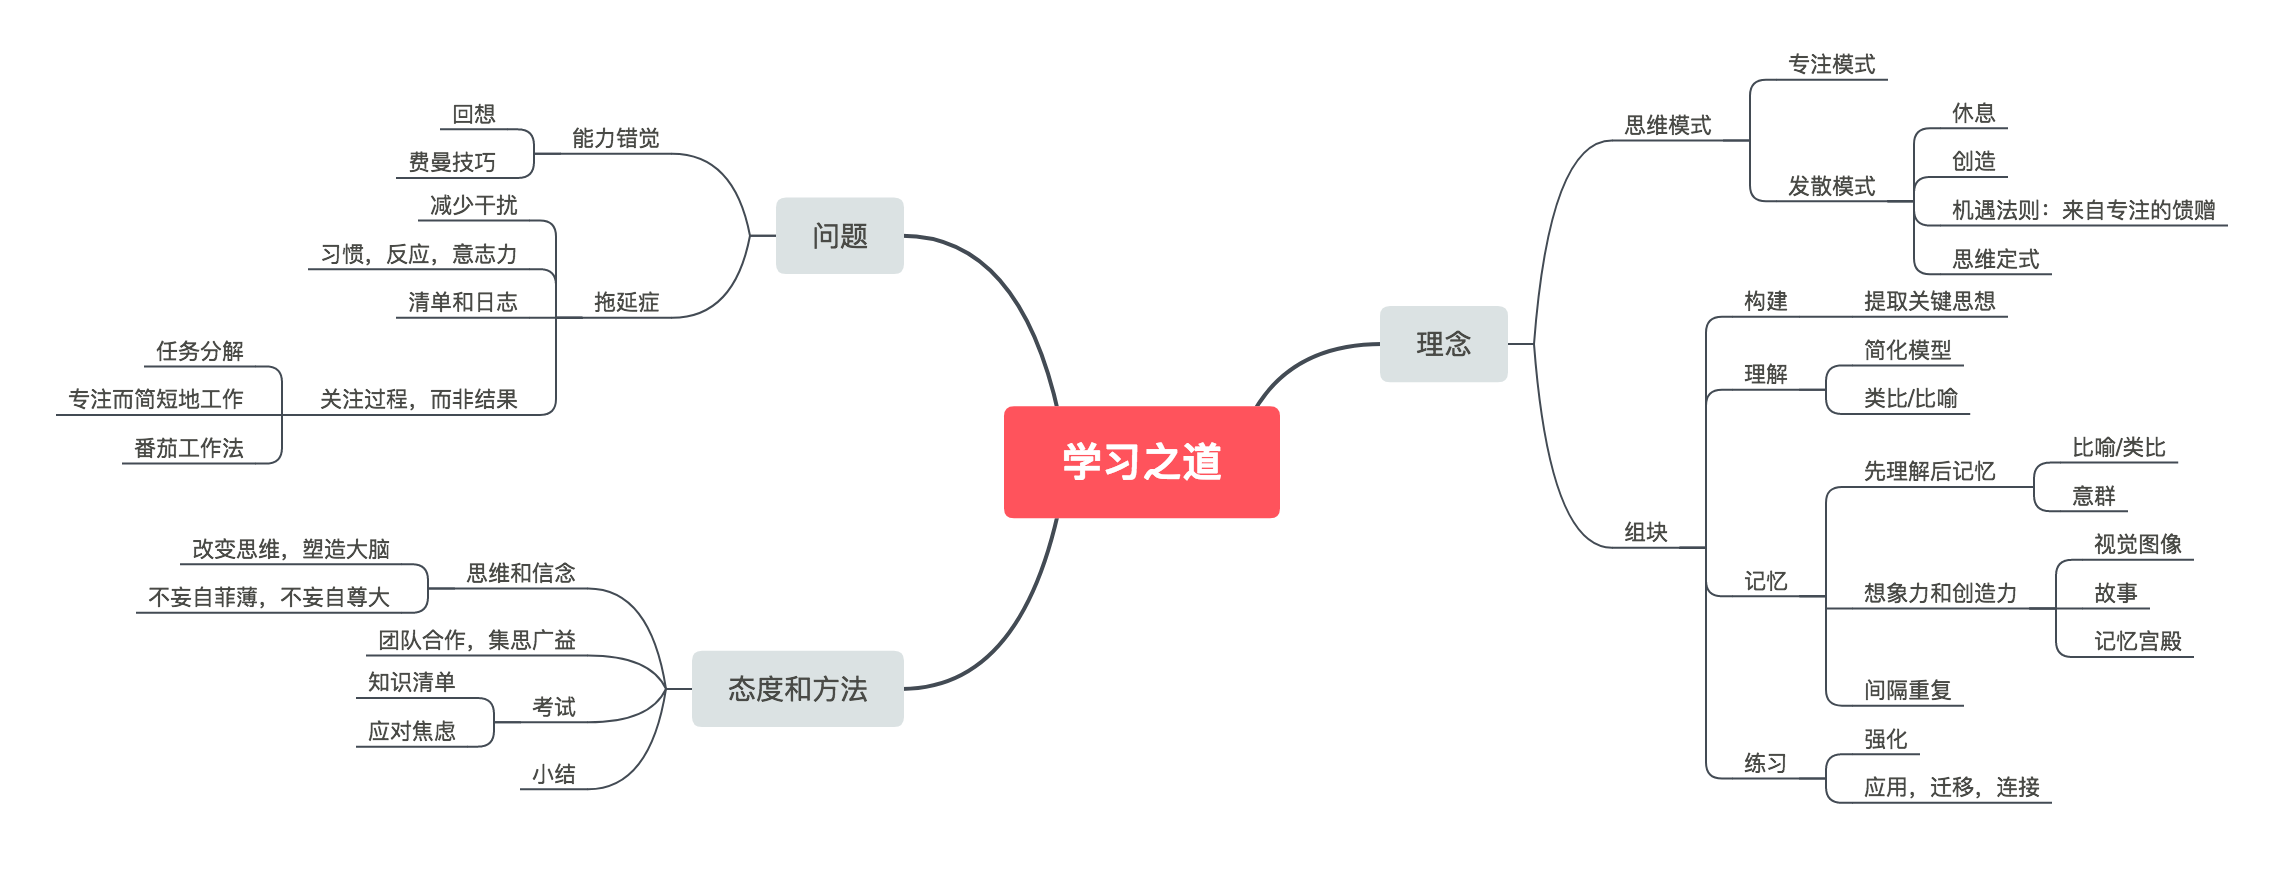
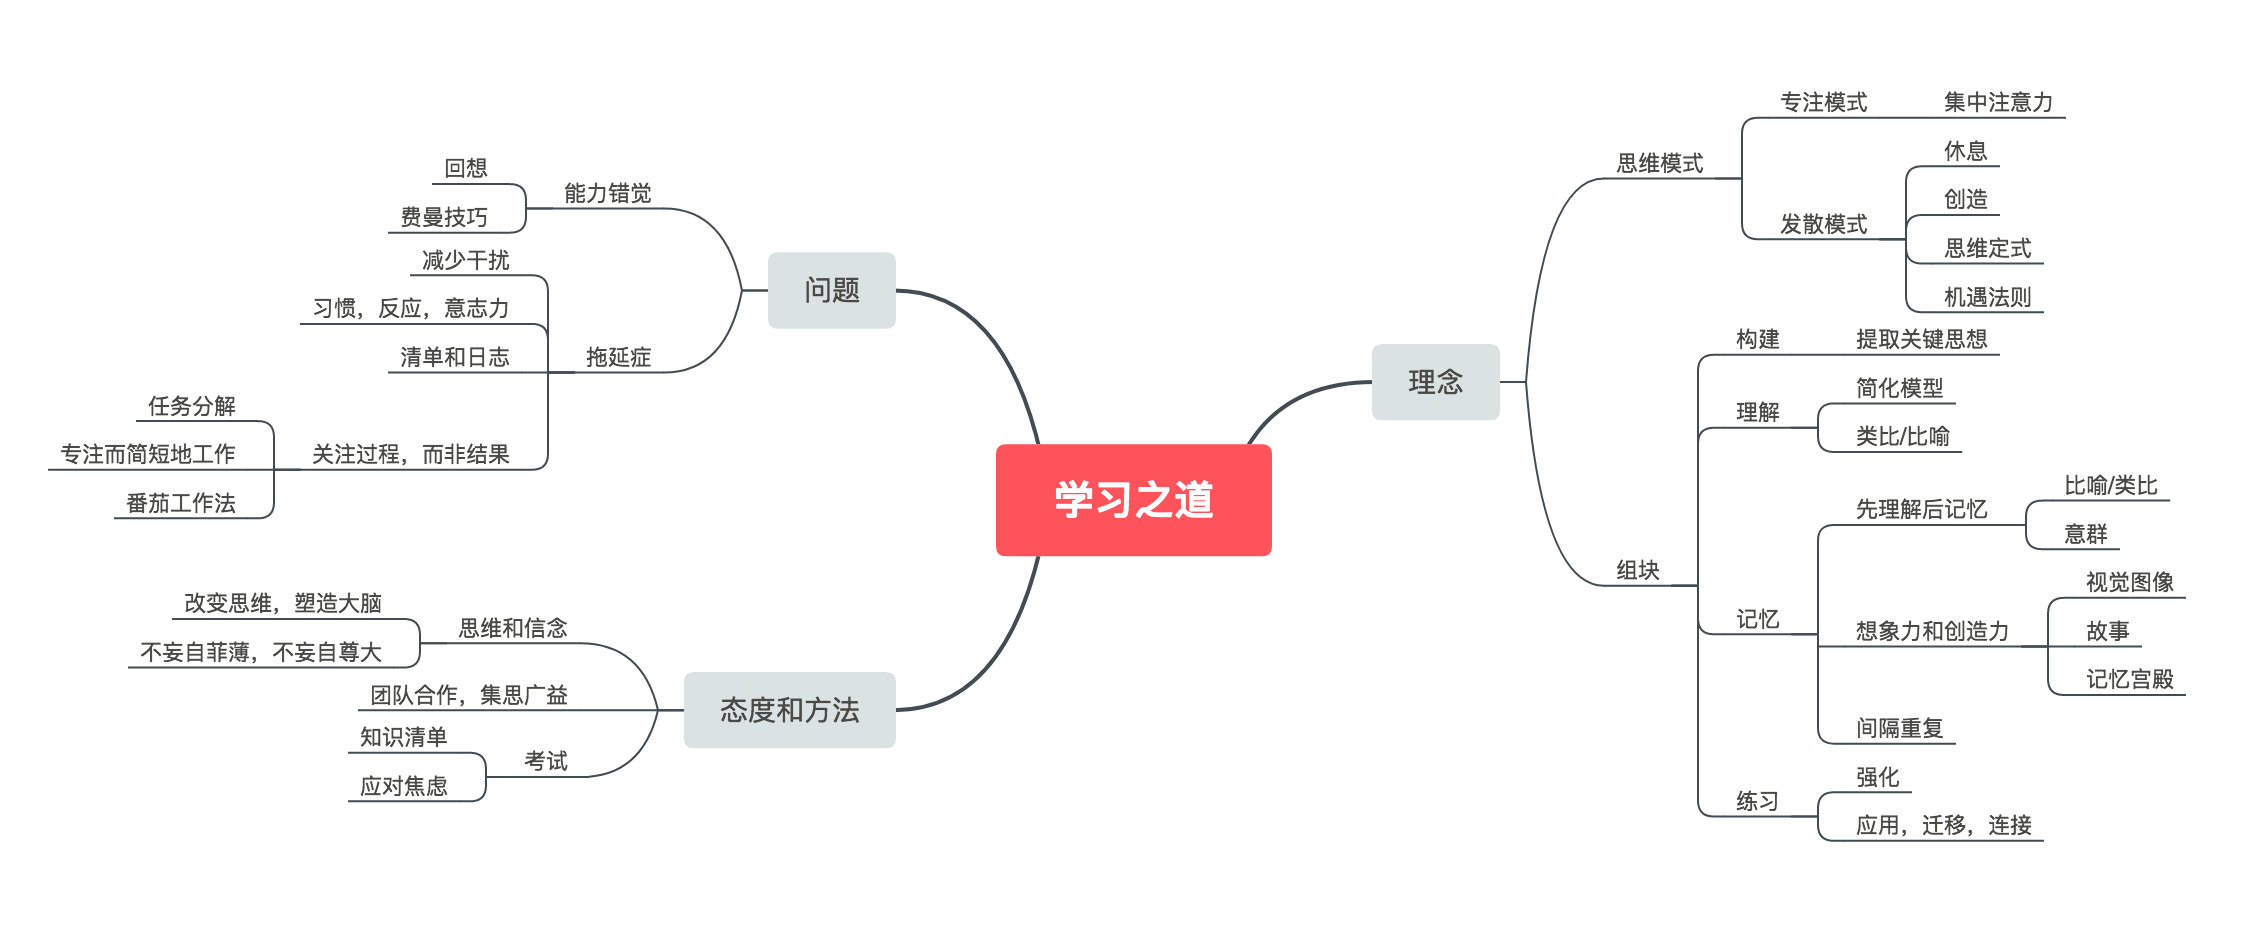
培养良好的习惯

diff --git a/_posts/2018-08-09-xue-xi-zhi-dao.md b/_posts/2018-08-09-xue-xi-zhi-dao.md
@@ -21,12 +21,11 @@ categories: 读书笔记
   - [回想与测试](#回想与测试)
   - [费曼技巧](#费曼技巧)
   - [跟拖延症较劲](#跟拖延症较劲)
-  - [习得性勤奋](#习得性勤奋)
+  - [培养良好的习惯](#培养良好的习惯)
 - [态度篇](#态度篇)
   - [笨小孩](#笨小孩)
   - [诚实面对自己](#诚实面对自己)
-  - [信念](#信念)
-- [行动纲领](#行动纲领)
+- [行动篇](#行动篇)
 - [NEXT](#next)
   - [阅读](#阅读)
   - [网站](#网站)
@@ -35,9 +34,9 @@ categories: 读书笔记
 
 ---
 
-好久之前就在 Coursera 上标记了 Learning How to Learn 这门课程，直到最近才完整地学习了一遍，颇受启发。课程配套的书，简体中文版叫[《学习之道》](https://book.douban.com/subject/26895988/)，内容相近，相互印证，整理成一篇读书笔记。
+之前就在 Coursera 上标记了 Learning How to Learn 这门课程，直到最近才完整地学习了一遍，颇受启发。课程配套的书，简体中文版叫[《学习之道》](https://book.douban.com/subject/26895988/)，内容相近，相互印证，整理成一篇读书笔记。
 
-对了，这本书原版英文名叫 A Mind for Numbers: How to Excel at Math and Science (Even If You Flunked Algebra)，偏数理一点。中文改成“学习之道”也行吧，毕竟，学好数理化，走遍天下都不怕，[手动狗头]。
+这本书英文原版叫 A Mind for Numbers: How to Excel at Math and Science (Even If You Flunked Algebra)，偏数理一点。中文翻译成“学习之道”也行吧，毕竟，学好数理化，走遍天下都不怕，[手动狗头]。
 
 ![学习之道]({{ site.baseurl }}/images/xue-xi-zhi-dao/xue-xi-zhi-dao.jpg){:width="360px"}
 
@@ -47,33 +46,33 @@ categories: 读书笔记
 
 ### 思维模式
 
-我们的大脑有两种思维模式：**专注模式 (focused mode)** 和 **发散模式 (diffuse mode)**，可以简单想象成“近光灯”和“远光灯”，或者类比成弹球的“精确制导”和”大力出奇迹“。做一个简单的比较：
+我们的大脑有两种思维模式：**专注模式 (focused mode)** 和 **发散模式 (diffuse mode)**，可以简单想象成“近光灯”和“远光灯”，或者类比成弹球的“精确制导”和“大力出奇迹”。做一个简单的比较：
 
 | 专注模式<br> (系统内) | 发散模式<br> (系统外) |
 | :---: | :---: |
 | 意识<br>理性<br>已知<br> (相对) 可控 | 潜意识<br>非理性<br>未知<br>不可控 |
 
-有人可能会觉得专注模式下的学习才叫学习，为什么还需要关注发散模式？
+有人可能会觉得专注模式下的学习才叫学习。其实不然，发散模式对学习也同样重要：
 
-* “休息”
+* 大脑需要“休息”，无法一直处于专注模式下
 * 避免 **思维定式 (Einstellung)**
-* 创造力
+* 发散模式让大脑不同区域得到相互联络的机会，产生真正的创造力
 
 > 通常，专注模式生成了初步思路之后，发散模式的灵感才源源涌现。
 
-为了获得更好的学习效果，我们需要交替使用专注模式和发散模式，张弛有度。
+为了获得更好的学习效果，我们需要交替使用专注和发散模式，张弛有度。
 
 ### 组块
 
-**组块 (chunking)** 是根据意义将信息碎片组成的集合。这是学习的基本单元，构建组块的过程就是学习的过程，其基本步骤为：
+**组块 (chunking)** 是根据意义将信息碎片组成集合，也就是学习的基本单元。构建组块的过程就是学习的过程，其基本步骤为：
 
 1. 提炼关键思想/核心概念
-2. 理解与记忆，跟原有知识体系产生连接
+2. 理解与记忆，跟原有知识体系产生连接，并强化连接
 3. 获取背景/上下文 (context)，练习，应用
 
 ### 理解
 
-理解是产生新的连接。
+理解是要产生新的连接。
 
 1. 简化模型，抓大放小，类比比较
 2. 增强练习，丰富细节，理清逻辑和关系
@@ -108,7 +107,7 @@ categories: 读书笔记
 
 **能力错觉 (illusions of competence)** 是指 (重复/单纯) 阅读课本或笔记时，大脑会产生错觉，自以为掌握了学习材料。这其实是一种被动且低效的学习方式。
 
-正确的做法是，在学习或者阅读中进行 **回想 (recall)**，提取关键概念、观点、逻辑、信息。复习的时候也是，回想和练习，也就是自我测试，而不是拿起书本，从头到尾再看一遍。如果是应试，考前对着大纲或者课程目录，回想对应的内容，查漏补缺，心里也会比较有底。
+正确的做法是，在学习或者阅读中主动 **回想 (recall)**，提取记忆 (关键的概念、观点、逻辑、信息等)。复习的时候也是，通过练习和回想，自我测试；而不是拿起书本，从头到尾再看一遍，小和尚念经，有口无心。考前，对着考试大纲或者课程目录，回想对应的内容，查漏补缺，心里也会比较有底，减少焦虑。
 
 > **测试本身就是一种强效的学习经历**。它可以改造你已有的知识体系或是为其添砖加瓦，同时可以显著地提高你记住学习材料的能力。通过测试而发生的知识构成上的改善，被称为“**测试效应**” (testing effect)。
 
@@ -116,9 +115,9 @@ categories: 读书笔记
 
 > 在试图对他人和自己做出解释时，你常会惊奇地发现，**理解常常是解释的产物**，而非先有理解才有解释。这就是为什么老师常说，他们第一次真正理解教学材料，是在自己去教学生的时候。
 
-物理学家理查德·费曼要求科学家和数学家简单阐释他们的概念。无论概念多么复杂，通常都能得到简单的解释。为了酝酿简单解释，把复杂材料分解成几个关键要素，结果对材料的理解就更加深刻了。
+物理学家理查德·费曼要求科学家和数学家 **简单阐释** 他们的概念。无论概念多么复杂，通常都能得到简单的解释。为了酝酿简单解释，把复杂材料分解成几个关键要素，结果对材料的理解就更加深刻了。
 
-斯科特·杨进一步发展了这个理念，称之为 **费曼技巧**，把自己想象成一个老师，在向学生讲述一个概念或者演算一道习题。一方面，理解和解释相辅相成，促进思考，发现问题，理清问题；另一方面，教别人对自己记忆也会有帮助，有一个学习留存率的图，称为学习金字塔，虽然我也觉得这些数字有点随意[^1]～
+斯科特·杨进一步发展了这个理念，称之为 **费曼技巧**：把自己想象成一个老师，在向学生讲述一个概念或者演算一道习题。一方面，理解和解释相辅相成，促进思考，发现问题，理清问题；另一方面，教别人的同时也会帮助自己记忆，提高学习留存率。(这么整齐的数字，想想都觉得有点随意呢～[^1])
 
 ![学习金字塔]({{ site.baseurl }}/images/xue-xi-zhi-dao/xue-xi-jin-zi-ta.jpg)
 
@@ -136,20 +135,24 @@ categories: 读书笔记
 
 当然，适当延后，并非拖延。不工作的时候，一定要休息，等一等，局面或许会不一样。
 
-### 习得性勤奋
+### 培养良好的习惯
 
-> 一个小小的自我称赞，比如“好棒，好厉害”，就能启动你大脑的重塑过程。这种重塑有时候被称为“**习得性勤奋**” (learned industriousness)，它能让你曾觉得乏味的工作陡然生色。
+习惯分为四个部分：
 
-勤奋也是可以习得的，要从培养好习惯开始：
-
-1. 信号，比如时间，地点，感觉
+1. 信号，比如时间、地点、事件、感受
 2. 动用一些意志力，改变对信号的反应程序
-3. 奖励，提高成就感和满足感，充满期待
-4. 坚定信念，自己一定能行
+3. 通过奖励机制，提高成就感和满足感
+4. 坚定信念
+
+![习惯的养成]({{ site.baseurl }}/images/xue-xi-zhi-dao/xi-guan.jpg)
 
 > 仅是沉浸到工作状态中就是一种奖励，它让你感受到高效的产出。
 
 奖励的作用在于有意识地协调付出与回报：越乐在其中，越得心应手；越得心应手，越乐在其中。
+
+习惯可以帮我们节省力气。
+
+> 一个小小的自我称赞，比如“好棒，好厉害”，就能启动你大脑的重塑过程。这种重塑有时候被称为“**习得性勤奋**” (learned industriousness)，它能让你曾觉得乏味的工作陡然生色。
 
 ## 态度篇
 
@@ -159,23 +162,19 @@ categories: 读书笔记
 
 > 如果你没能快速掌握学习材料的重点，不要灰心。常让人惊讶的是，“学得慢”的学生会抓住根本问题，而这些部分通常为进度较快的学生所遗漏。真正了解前因后果能让你从更深层次理解问题。
 
-知乎上有句话说，以大多数人的努力程度之低，根本轮不到拼天赋。哈哈，“笨”一点没关系啦，慢也有慢的好处，不用着急。其实，不管快慢，都需要不断地练习，同时保持头脑开放，不断地试错、调整。
+知乎上有句话说，以大多数人的努力程度之低，根本轮不到拼天赋。哈哈，“笨”一点没关系啦，大智若愚。而且，慢也有慢的好处，不用着急。
 
-> 训练，尤其是对学习材料中最困难的部分更要刻意训练，这样才能让那些拥有普通智力的人有机会上升到“天赋异禀”的境界。
+其实，不管学得快还是慢，都要不断地练习，尤其是对学习材料中最困难的部分更要刻意练习；还要保持头脑开放，不断地试错、调整。
 
 ### 诚实面对自己
 
 > 失败并没那么可怕。你要分析自己的问题所在，作为前车之鉴，让自己将来做得更好一些。
 
-不需要向谁炫耀什么，也不需要向谁证明什么。一切的经验，自己的、他人的，正确的、错误的，都是为下一次遇见作准备。
+不需要向谁炫耀什么，也不需要向谁证明什么。一切的经验，自己的、他人的，正确的、错误的，转化成积极的反馈，为下一次作好准备。
 
-### 信念
+相信自己，砥砺前行。
 
-> 我们对神经发育的理解尚未成熟，但是有件事却变得越来越明显——通过改变自身的思考方式，我们也能让大脑内部发生显著变化。
-
-大脑具有可塑性，无限可能，凭借毅力，凭借信念，改变思维，从而改变人生，改变生活。
-
-## 行动纲领
+## 行动篇
 
 1. 运用回想
 2. 自我测试
